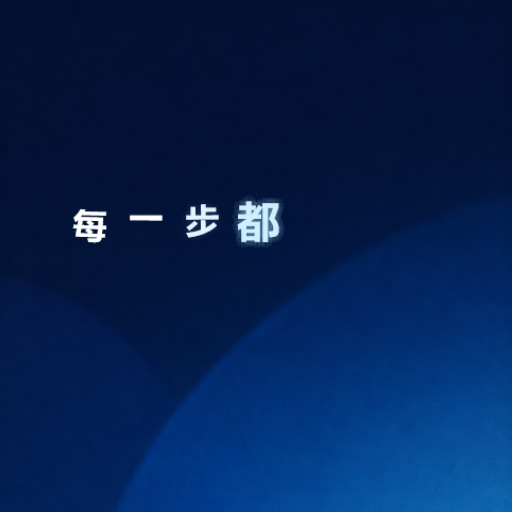
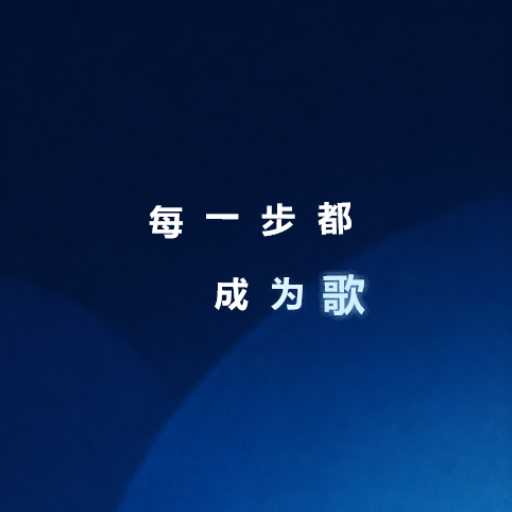
try(widget): 居中动态歌词分段并加入间奏动画（组件验证通过，待实机验证） / Center dynamic lyric fragments and add interlude animation (widget checks passed, runtime validation pending)
中文：
- 桌面歌词 1.1.16 按当前展示分段的完整占位范围一次性水平、垂直居中，保留固定字位与错落排布；逐字出现时不重新计算中心。
- 动态预览默认选中末字演唱中段，设置及菜单切换同步更新；显式预览时间继续优先。更新中文动态图库预览。
- 动态模式对超过三秒的前奏、句间空档和尾奏显示六个独立圆点，按空档时间依次入场、缩放及发光。暂停冻结，减少动态效果时静止，曲目结束保留尾奏提示。
- 原生逐字结束时间用于空档判断；普通 LRC 沿用已有文字时长估算，关闭估算高亮仍保留空档判断。参考 Folia 的六段间奏时间与居中动画思路，独立实现圆点绘制。

English:
- Desktop Lyrics 1.1.16 centers the full reservation of each current fragment horizontally and vertically once, retaining fixed anchors and irregular row offsets without recentering as words appear.
- Dynamic previews select the middle of the final character's singing interval, update with mode changes, and honor explicit preview times. Refresh the Chinese dynamic gallery image.
- Intros, inter-line gaps and outros longer than three seconds use six geometric dots entering, scaling and glowing in sequence. Pause freezes them, reduced motion keeps them static, and track completion retains the outro indicator.
- Native word endings determine gaps; ordinary LRC retains the existing text-duration estimate even when estimated highlighting is disabled. Independently implement the dot rendering after reviewing Folia's six-part interlude timing and centered animation.

验证 / Validation:
- snowwidget test .codex-probes/desktop-lyrics/center-1116/after-package: 56/56 passed, including fragment bounds, final-character previews, instrumental intervals, pause, offsets, complete fragments and collision checks.
[…]

diff --git a/developer_assets/workshop_widgets/desktop-lyrics/README.md b/developer_assets/workshop_widgets/desktop-lyrics/README.md
@@ -2,7 +2,9 @@
 
 SnowDesktop 官方社区歌词组件。默认选用“透明”外观预设，只绘制歌词；当前行位于纵向中央，前后行逐渐淡出。组件高度决定可见行数，字号和行距可独立调整。右键菜单可直接切换滚动、动态两种模式，并显示选中状态；“重新匹配歌词”保留刷新图标。显示设置和外观预设使用宿主统一的组件设置入口。
 
-组件设置中的“歌词模式”可切换“滚动歌词”和“动态歌词”，与右键菜单共用保存值。默认保留滚动模式；动态模式参考 Folia 的弹簧放大、逐字光晕和整句呼吸，未唱的词隐藏，唱完后缩回并淡去光晕。字间留白收紧，字位沿随机起伏的路径保持相近距离，空格保留单词分隔；后续行使用独立的稳定偏移，不排成整齐网格。字位预先确定，动画不推动相邻字或重新居中整行。已经唱过的字继续各自缓慢旋转、上下浮动，幅度、相位和节奏按字错开，整体偏转限制在八度以内。首行与分段切换沿用稳定起点，翻译保留原对齐。只绘制当前句及其已开启的翻译、罗马音，不叠加前后句。
+组件设置中的“歌词模式”可切换“滚动歌词”和“动态歌词”，与右键菜单共用保存值。默认保留滚动模式；动态模式参考 Folia 的弹簧放大、逐字光晕和整句呼吸，未唱的词隐藏，唱完后缩回并淡去光晕。字间留白收紧，字位沿随机起伏的路径保持相近距离，空格保留单词分隔；后续行使用独立的稳定偏移，不排成整齐网格。每个展示分段按完整占位范围在组件窗口中居中，包含尚未出现的字；字位预先确定，逐字动画不推动相邻字或重新计算中心。已经唱过的字继续各自缓慢旋转、上下浮动，幅度、相位和节奏按字错开，整体偏转限制在八度以内。翻译保留原对齐。只绘制当前句及其已开启的翻译、罗马音，不叠加前后句。动态预览默认停在最后一个字演唱中段，显式指定的预览时间仍优先。
+
+动态模式中，超过三秒的前奏、句间空档和尾奏显示六个居中的独立圆点，参考 Folia 按空档时间逐个入场、放大并亮起光晕。暂停冻结动画，减少动态效果时显示静态圆点。原生逐字歌词按实际演唱结束时间判断；普通 LRC 使用已有的文字时长估算，关闭逐字高亮估算时也保留空档判断，不能据此确认真实音频中没有人声。短停顿继续保留歌词。
 
 原生逐字与估算逐字共用这套效果。动态歌词按组件可用宽高拆成能完整显示的小段，超宽单词继续拆分，中文可按字拆分，组合字符和 emoji 保持完整；随演唱切换当前小段，保留原歌词时间，不把超高文本块滑入裁切区域。翻译和罗马音也按完整行分段。基准字号沿用用户设置，只在空间不足以完整容纳单行时适配；切段和动画不会反复改变字号或换行。关闭估算后不创建逐字时间，长句分段仅按整句时段切换。暂停时切段、缩放、角度、位置和光晕一起冻结；减少动态效果时关闭装饰动画。字形光晕使用有界的宿主原生字形层。
 
@@ -37,6 +39,7 @@ AMLL TTML 和网易云 YRC 保留原生逐字时间。缺少逐字时间的 LRC 
 - [Folia 酷狗歌词实现](https://github.com/chthollyphile/folia-major/blob/main/src/services/onlineMusic/kugou/kugouLyricProvider.ts)
 - [Folia 普通 LRC 时间估算思路](https://github.com/chthollyphile/folia-major/blob/f03e8ecad21af765976cd00c5802218cdb22c8e4/src/utils/lyrics/parserCore.ts#L59)：借鉴按句长和文字权重分配时间的思路，组件独立实现估算与缓存。
 - [Folia 逐词动画状态](https://github.com/chthollyphile/folia-major/blob/f03e8ecad21af765976cd00c5802218cdb22c8e4/src/components/visualizer/glowWordVariants.ts)：对应等待、演唱、已唱的缩放、弹簧位移和旋转状态。
+- [Folia 间奏时间处理](https://github.com/chthollyphile/folia-major/blob/main/src/utils/lyrics/parserCore.ts)与[经典动态布局](https://github.com/chthollyphile/folia-major/blob/main/src/components/visualizer/classic/Visualizer.tsx)：借鉴超过三秒空档的六段提示及居中逐点动画；组件独立绘制圆点，并将同一表现扩展到尾奏。
 - [Folia 经典歌词排布](https://github.com/chthollyphile/folia-major/blob/f03e8ecad21af765976cd00c5802218cdb22c8e4/src/components/visualizer/classic/Visualizer.tsx)：对应由歌曲时间确定的稳定词布局与整句呼吸。
 - [Folia 字形光晕](https://github.com/chthollyphile/folia-major/blob/f03e8ecad21af765976cd00c5802218cdb22c8e4/src/components/visualizer/wordGlow.ts)：对应逐字激活、保持及唱完后的光晕衰减；组件使用宿主已有原生视图与变换独立实现。
 - [AMLL 原生接口](https://amll.dev/reference/http-api/native)
@@ -64,7 +67,9 @@ Native TTML, YRC, QRC and KRC word timing is supported. QQ and Kugou try native 
 
 A read-only community lyric widget for SnowDesktop. It starts transparent and draws lyrics only. The current line stays centered; increasing widget height reveals more surrounding lines. Font scale and line spacing are separate preferences.
 
-“Lyric mode” in the existing widget settings and the checked context-menu entries share the same saved value. Scrolling remains the default. Dynamic mode references Folia's spring scale, glyph glow and sentence breathing. Upcoming words stay hidden, then enter, enlarge and settle as their glow fades. Tighter glyph spacing follows an irregular path with comparable neighboring distances, while spaces preserve word separation. Subsequent rows use independent stable offsets. Anchors are computed once so animation does not shift neighbors or recenter the row. Sung glyphs continue rotating and floating with staggered phases and rates; rotation stays within eight degrees. First rows and fragment changes retain a stable origin, and subtitles keep their alignment. Only the current sentence and its enabled translation/romanization are drawn.
+“Lyric mode” in the existing widget settings and the checked context-menu entries share the same saved value. Scrolling remains the default. Dynamic mode references Folia's spring scale, glyph glow and sentence breathing. Upcoming words stay hidden, then enter, enlarge and settle as their glow fades. Tighter glyph spacing follows an irregular path with comparable neighboring distances, while spaces preserve word separation. Subsequent rows use independent stable offsets. Each complete fragment reservation is centered in the widget window, including upcoming words. Anchors are computed once so singing does not shift neighbors or recalculate the center. Sung glyphs continue rotating and floating with staggered phases and rates; rotation stays within eight degrees. Subtitles keep their alignment. Only the current sentence and its enabled translation/romanization are drawn. Dynamic previews default to the middle of the final character's singing interval; explicit preview positions remain authoritative.
+
+In dynamic mode, intros, gaps between lines and outros longer than three seconds show six centered geometric dots. Following Folia's interlude idea, dots enter, enlarge and glow in sequence over the gap. Pause freezes them, and reduced motion keeps them static. Native word timings determine the singing end; ordinary LRC uses the existing text-duration estimate even when estimated highlighting is disabled. This estimate cannot establish that the actual audio has no vocals. Short pauses retain the lyrics.
 
 Native and estimated timing share these effects. Dynamic lyrics split into complete fragments that fit the available width and height. Oversized words split further, CJK text can split by character, and graphemes/emoji remain intact. Singing selects the current fragment using the original timeline; oversized blocks are no longer scrolled through a clipping viewport. Translations and romanization also use complete-row fragments. The configured base font adapts only when a full row cannot fit; fragment changes and animation do not repeatedly change font size or wrapping. Disabling estimates creates no word timing; fragment selection uses the line's interval only. Pause freezes the fragment, transforms and glow. Reduced motion removes decorative animation. Halos use bounded native glyph layers.
 
